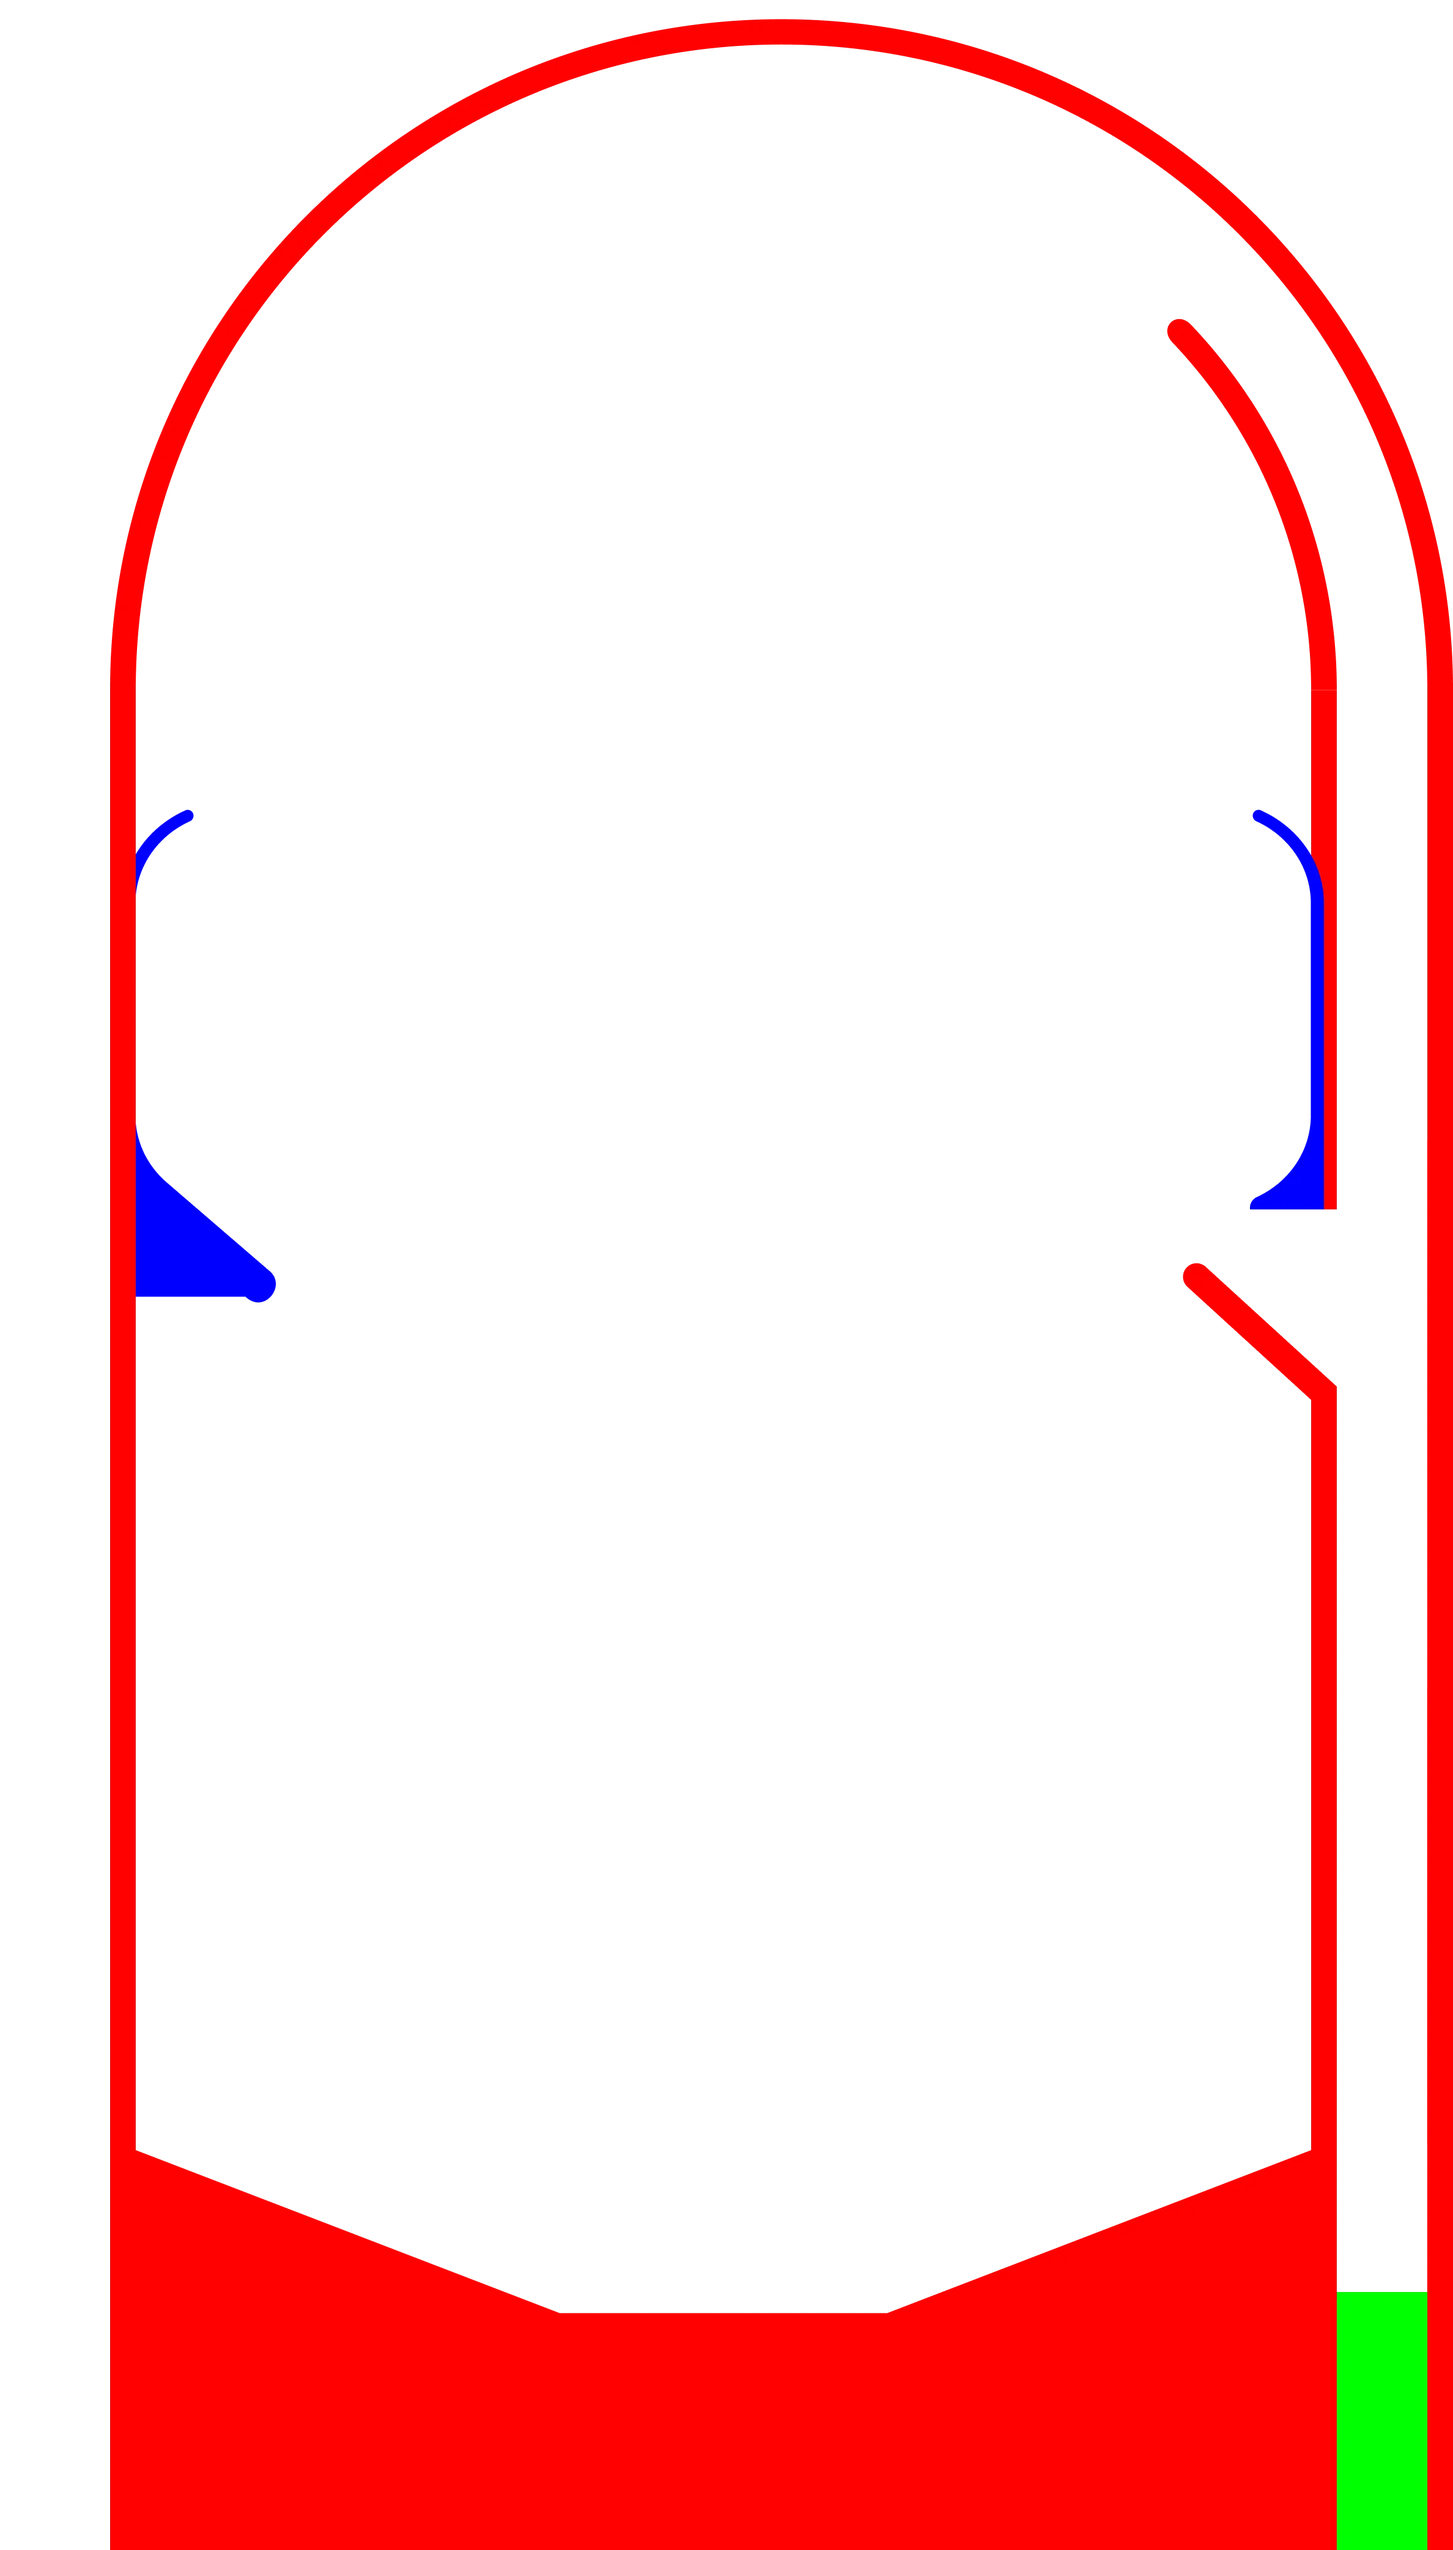
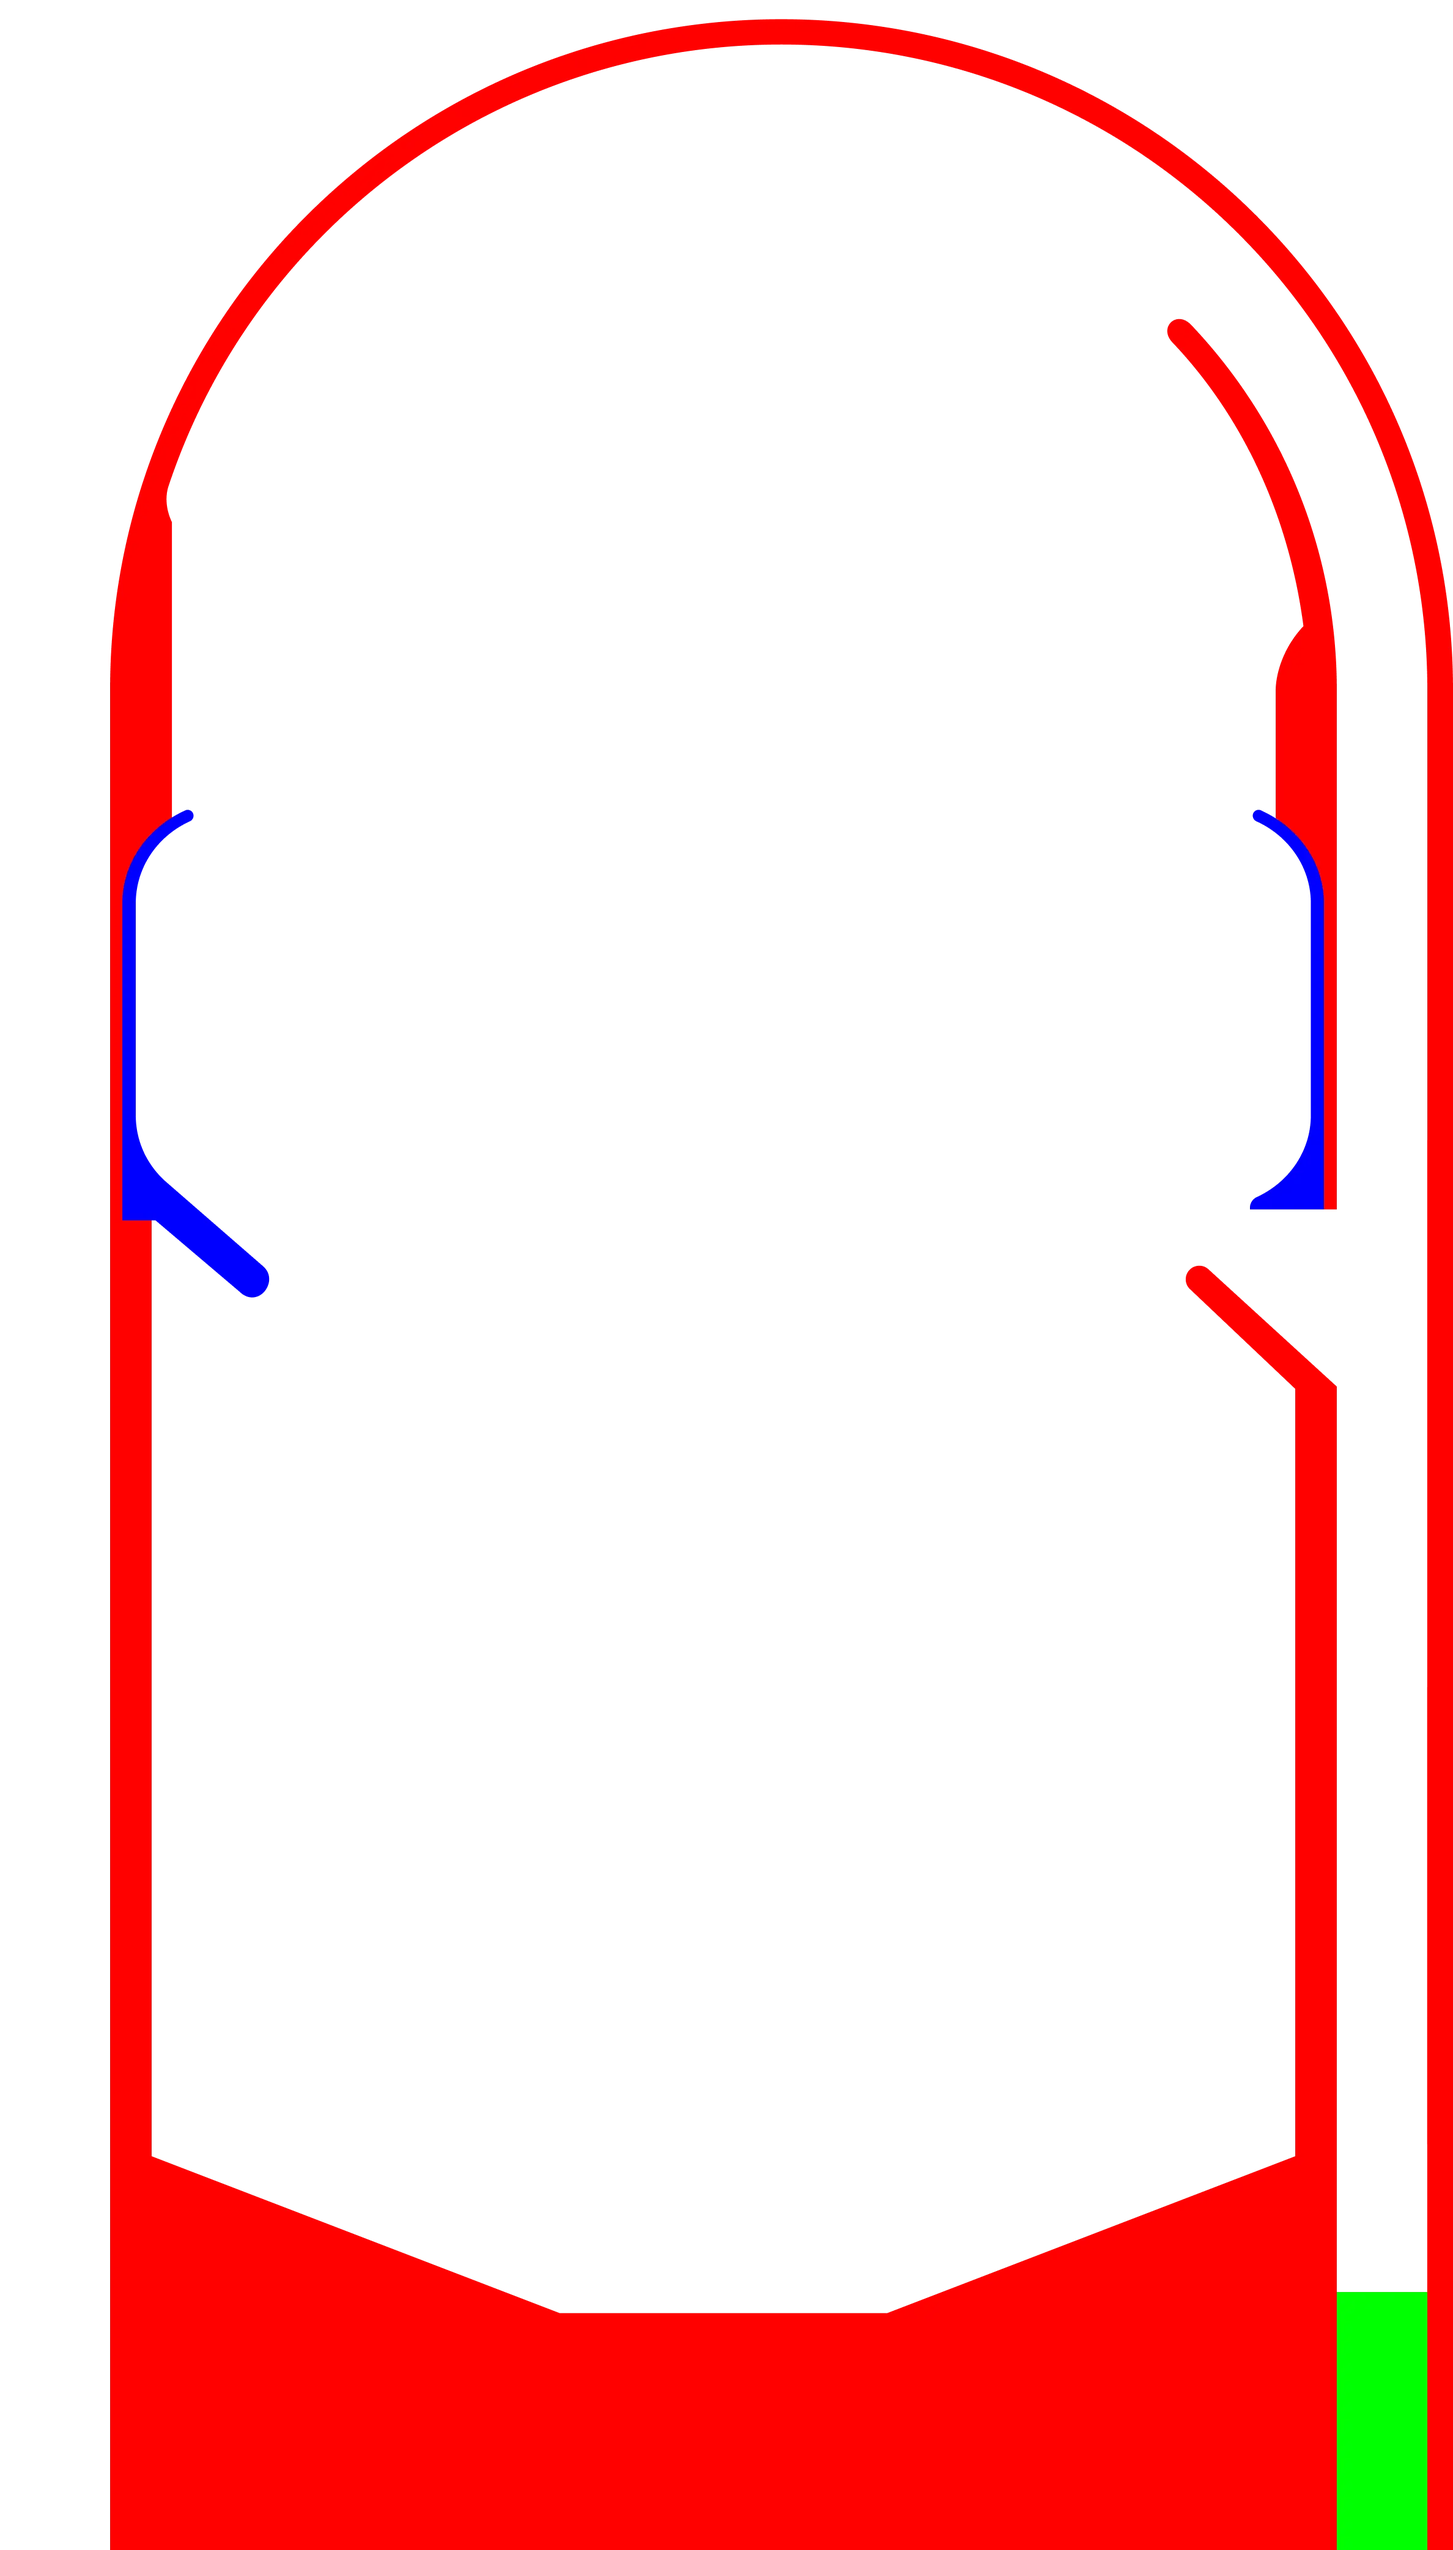
Refine and combine layers; typefixes

diff --git a/src/components/LayerRenderer.svelte b/src/components/LayerRenderer.svelte
@@ -1,5 +1,6 @@
 <script lang="ts">
   import Vec2 from '$lib/Vec2';
+  import type { Lamp } from '$lib/Thing';
 
   import { onMount } from 'svelte';
   import { lerp, loadImage } from "$lib/utils";
@@ -9,7 +10,7 @@
   import shader from '$src/shaders/table.glsl?raw';
 
   export let ballPos:Vec2 = Vec2.zero; // In screen space
-  export let lamps:Record<string, boolean> = {};
+  export let lamps:Record<string, Lamp> = {};
   export let width:number;
   export let height:number;
 

diff --git a/notes.md b/notes.md
@@ -8,22 +8,24 @@
 - Tilting
 - Graphics
   - Proper launcher graphic
+    - Move launcher color to it's own layer (or extras layer)
   - All black outlines
   - Chrome ball
   - Targets and droptargets
-  - Targets don't seem to line up with plastics?
-    - Adjust lft plastic
   - Improve colorscheme
   - Layers with spare channels:
       - Lanes: green
-      - LabelText: green
-  - Rings map no longer needed
-  - Separate face and hair masks?
+      - DroptargetSlots: blue
+  - Extras layer doesnt have spare channels but it does have a lot of space:
+    - Combine with another layer and segregate by y-value?
+    - Layers with non-intersecting features:
+      - Extras
+      - Bumpers
+      - DroptargetSlots
+      - Logo
+  - Outlane kickers probably not going to be drawn
+  - Separate face and hair masks per-face?
   - Consolidate sparse layers (maybe an additional mask for segregation)
-  - Lighting masks? 3 different groups block walls and create stencil shadows
-  - Fill behind plastics with wall mask
-    - different color? 
-      - Move launcher color to it's own map (or extras map)
   - Make outer wall fatter
 
 - Basic sound fx
